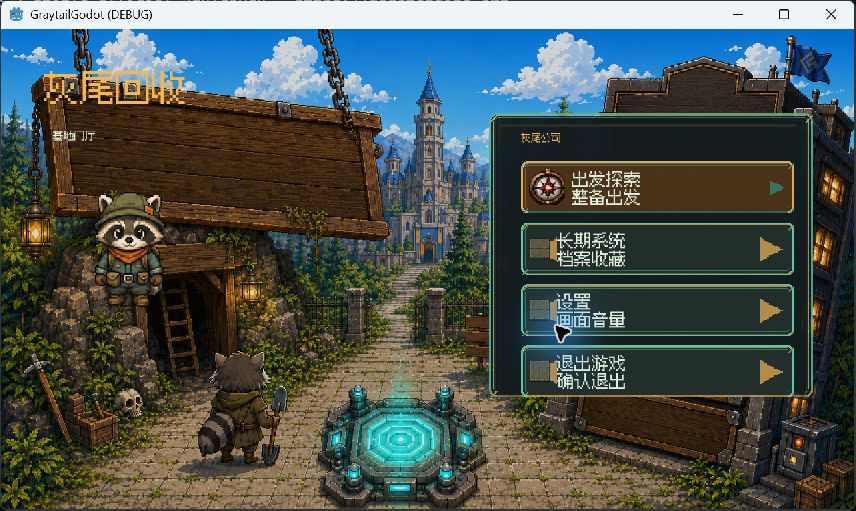
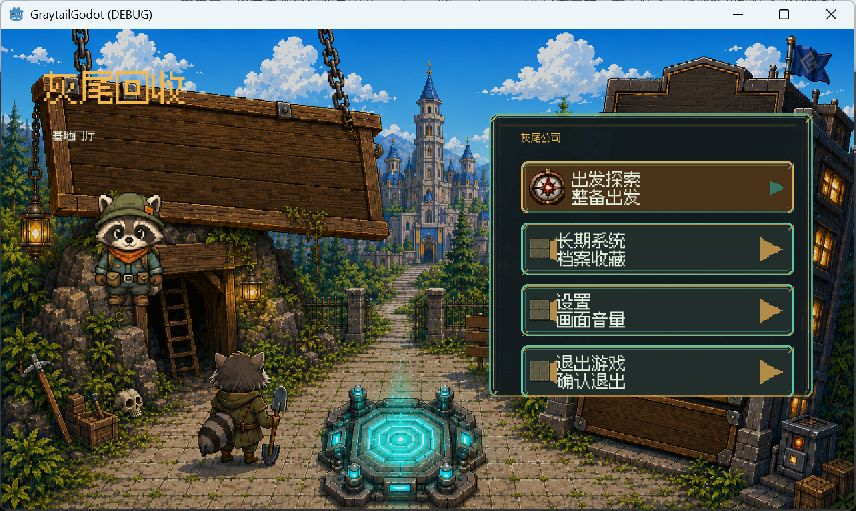
fix(art): remove duplicate run world UI layers

Changed region(s): [[0.6075, 0.5577, 0.6986, 0.7339], [0.972, 0.0, 1.0, 0.0294], [0.0, 0.0, 0.0304, 0.0294]]

diff --git a/docs/art/validation/art21r1/ART21R1_UE_PARITY_COMPARISON.md b/docs/art/validation/art21r1/ART21R1_UE_PARITY_COMPARISON.md
@@ -18,7 +18,7 @@ User correction after the first ART-21R1 repair pass: Godot should preserve the 
 | --- | --- | --- | --- | --- |
 | main_menu | Full scene background, left hanging board, right physical board, plank-like options, no generic tooltip layer. | Uses the same imported background family at high visibility; removes the old left line-frame overlays; right board holds large options and disables tooltips. Clicking `出发探索` keeps the original direct route to Deploy Prep. | PARTIAL_PASS | Right options still read as terminal buttons more than authored wooden planks. Settings / exit remain generic menu entries. |
 | deploy_prep route | UE has richer selection states, but the Godot product contract keeps map/difficulty/config inside Deploy Prep. | Main menu `deploy` entry emits the model-defined `TARGET_DEPLOY`; no extra area/difficulty main-menu pages are added. | PASS | Deploy Prep itself remains contract-era and needs a later visual page-family rebuild. |
-| run_hud | Room/player/object world layer is primary; left rail fixed; right top card compact; bottom key bar overlays without cutting the room away. | Restores room-specific background through `PresentationMapping`, removes permanent room text masks, hides the right fill layer, and shows feedback only on command state. | PASS | Left minimap is larger and more table-like than UE. Bottom key bar remains heavy. |
+| run_hud | Room/player/object world layer is primary; left rail fixed; right top card compact; bottom key bar overlays without cutting the room away. | Keeps the real `RoomLayer/PlayerLayer` as the only world rendering authority, hides RunSurface's former UI room/player duplicate layers, removes permanent room text masks, hides the right fill layer, and suppresses large success feedback. | PARTIAL_PASS | Left minimap is larger and more table-like than UE. Bottom key bar remains heavy. Real player placement still depends on RunScene gameplay/local-position state. |
 | map_overlay | Modal dim layer over run HUD, centered map grid, clear cells and markers. | Adds stronger dimmer, centered panel, square cell sizing, and denser marker styling. | PARTIAL_PASS | Cells are still abstract UI squares and less readable than UE map tiles/markers. |
 | modal inventory/result | Modal overlays are acceptable; focus should return to run HUD. | Inventory and result modal screenshots captured. Result is reachable from confirmed pause exit. | PARTIAL_PASS | Inventory has no dedicated key route in `RunSceneInputRouter`; it was opened through the bottom Q-labeled button. |
 | text/backplate policy | Text sits on physical surfaces where possible; modal text remains in modal frames. | Main menu tooltips removed, run room top text mask hidden, command feedback is state-triggered, map/inventory/result remain modal. | PARTIAL_PASS | Deploy / long-term still contain many nested generic frames outside the main ART-21R1 code changes. |
@@ -26,7 +26,7 @@ User correction after the first ART-21R1 repair pass: Godot should preserve the 
 
 ## Objective Judgment
 
-ART-21R1 improves the most severe visual failure: Run HUD no longer treats the room as a background behind a generated UI frame. Main menu is cleaner while preserving its original deploy click route. Map and modals are usable.
+ART-21R1 improves the most severe visual failure: Run HUD no longer treats the room as a background behind a generated UI frame, and a follow-up correction removes the duplicated UI room/player layers so the real `RoomLayer/PlayerLayer` remains authoritative. Main menu is cleaner while preserving its original deploy click route. Map and modals are usable.
 
 The stage should not be called a full UE parity pass because MapOverlay is still visually below UE, Deploy / Long-term were not rebuilt in this pass, and the inventory key path is inconsistent with its Q label.
 

diff --git a/docs/art/ART21R1_UE_PARITY_FLOOR_EXISTING_ASSETS.md b/docs/art/ART21R1_UE_PARITY_FLOOR_EXISTING_ASSETS.md
@@ -15,7 +15,7 @@ art/art21r1-ue-parity-existing-assets
 | Area | Change |
 | --- | --- |
 | Main menu | Preserved the original `出发探索 -> Deploy Prep` click route, removed default tooltips, raised background visibility, removed left-side artificial line/mask overlays, and kept the right menu in a single board-like action deck. |
-| Run HUD | Restored room-specific runtime background selection in `run_surface.gd`; made the room/player layer primary; removed permanent top room text masks and right-side world fill; made command feedback state-triggered. |
+| Run HUD | Keeps real `RoomLayer/PlayerLayer` rendering authoritative; hides the former RunSurface UI room/player duplicate layers; removes permanent top room text masks and right-side world fill; suppresses large success feedback. |
 | Map overlay | Reworked `map_overlay_panel.gd` toward a centered modal grid with stronger dimming, square cells, and less table-like spacing. |
 | Evidence | Captured UE and Godot before/after screenshots under `docs/art/validation/art21r1/screenshots/`. |
 | Contract | Added `docs/art/validation/art21r1/ui_placement_contract_v2.csv` with screen/layer/slot/state/consumer/screenshot mapping. |
@@ -35,6 +35,7 @@ art/art21r1-ue-parity-existing-assets
 - This is not Base final visual completion.
 - This is not a full Deploy / Long-term page-family rebuild.
 - This does not add UE-style area/difficulty pages to the Godot main menu. Map, area, difficulty, and loadout choice remain Deploy Prep responsibilities.
+- This does not replace the real run world with a UI-drawn room/player layer; RunSurface duplicate world layers are explicitly hidden.
 - This does not prove UE inventory / loot / event parity because those UE states were not naturally triggered in the sampled run.
 - This does not prove Godot ground loot visual parity because ground loot was not naturally triggered in the sampled run.
 - The validator is structural evidence only; screenshot comparison remains the acceptance boundary.

diff --git a/docs/art/ART21R1_CLOSEOUT_UE_PARITY_FLOOR.md b/docs/art/ART21R1_CLOSEOUT_UE_PARITY_FLOOR.md
@@ -11,7 +11,7 @@ PARTIAL: ue_parity_floor_partial / blockers_listed
 - UE reference was launched and captured for main menu, area select, difficulty select, run HUD, and map overlay.
 - Godot before screenshots were captured before code changes.
 - Godot after screenshots were captured for main menu, deploy prep, run HUD, map overlay, inventory, and result.
-- Run HUD now presents the real room/player world layer as primary evidence instead of relying on `gameplay_viewport_background`.
+- Run HUD now presents the real `RoomLayer/PlayerLayer` world layer as primary evidence instead of relying on `gameplay_viewport_background` or UI-drawn duplicate room/player layers.
 - Main menu preserves the original direct `出发探索 -> Deploy Prep` click flow and no longer uses the previous left-side line-frame overlays.
 - Map overlay is now a centered modal grid with stronger background separation.
 - Inventory and result modals are reachable in a live Godot run.
@@ -21,6 +21,7 @@ PARTIAL: ue_parity_floor_partial / blockers_listed
 
 - Main menu still uses ART terminal/button skins for the right action board; it is cleaner but not a full UE physical board reproduction.
 - UE-style area/difficulty selection was not implemented on the main menu by design; those choices belong in Deploy Prep.
+- Run HUD no longer duplicates room/player through RunSurface, but real player placement remains governed by RunScene gameplay/local-position behavior and should be separately tuned if the player appears in an unexpected room-local position.
 - Map overlay cells remain abstract squares and are still below UE tile/marker readability.
 - Deploy and Long-term remain mostly ART-21 contract-era pages and were not rebuilt to the UE/Base page-family target in this pass.
 - Inventory has a Q-labeled button, but `RunSceneInputRouter` does not currently route keyboard Q to inventory.
